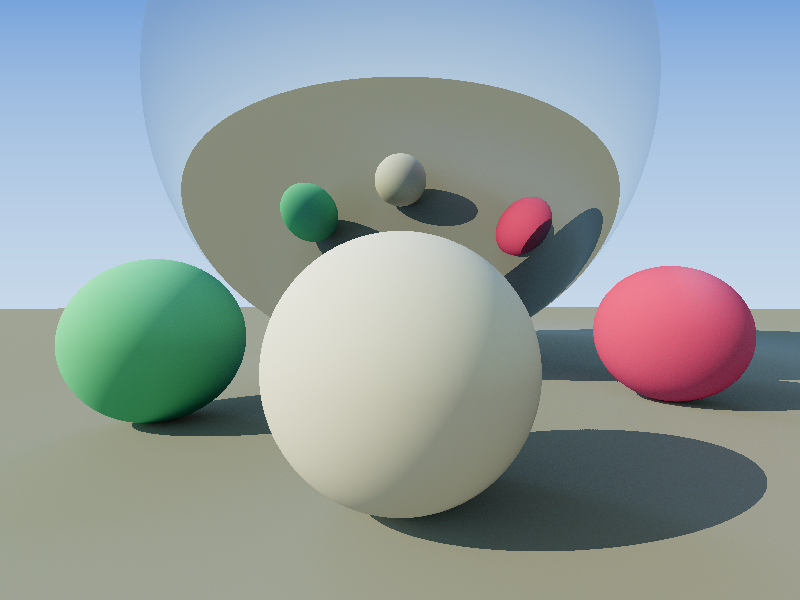
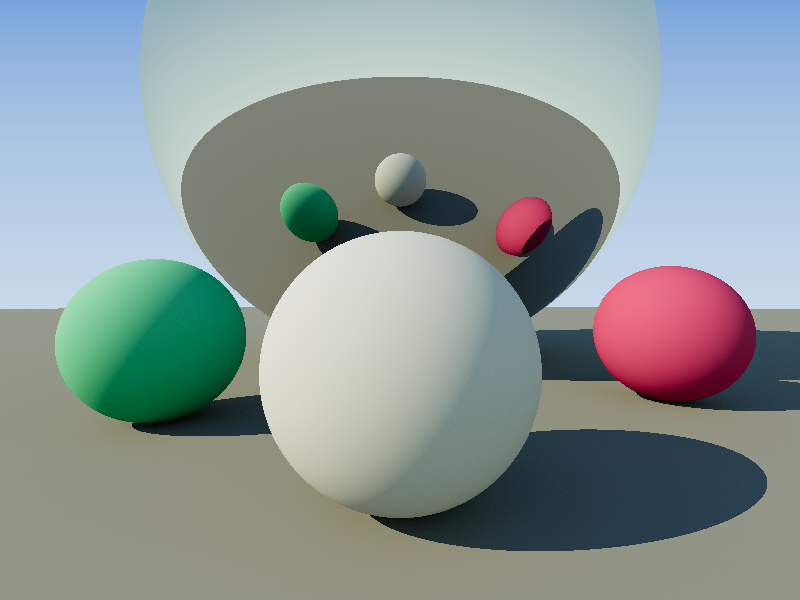
Pathtracing Impl

diff --git a/Raytracer/Intersection.h b/Raytracer/Intersection.h
@@ -23,7 +23,6 @@ namespace CommonUtilities
 			return true;
 		}
 
-	
 		T normalDotProd = aRay.GetDirection().Dot(aPlane.GetNormal());
 		T pointDotProd = aRay.GetOrigin().Dot(aPlane.GetNormal());
 
@@ -38,17 +37,9 @@ namespace CommonUtilities
 
 
 	// If the ray intersects the AABB, true is returned, if not, false is returned.
-	// Any ray starting on the inside is considered to intersect the AABB
 	template<typename T>
 	bool IntersectionAABBRay(const AABB3D<T>& aAABB, const Ray<T>& aRay, Vector3<T>& aOutIntersectionPoint)
 	{
-		if (aAABB.IsInside(aRay.GetOrigin()))
-		{
-			aOutIntersectionPoint = aRay.GetOrigin();
-
-			return true;
-		}
-
 		Vector3<T> a = GetClosestPoint(&aAABB, aRay);
 
 		if (!aAABB.IsInside(a)) return false;
@@ -69,76 +60,31 @@ namespace CommonUtilities
 
 
 	// If the ray intersects the sphere, true is returned, if not, false is returned.
-	// Any ray starting on the inside is considered to intersect the sphere
 	template<typename T>
 	bool IntersectionSphereRay(const SphereCollider<T>& aSphere, const Ray<T>& aRay, Vector3<T>& aOutIntersectionPoint)
 	{
-		/*
-		1. Hitta punkten på strålen som är närmast  sfären/cirkeln
-			-Projicera (aSphere.myOrigin - aRay.myOrigin) på aRay.myDirection för att hitta a.
-		2. Kolla om a är i sfären/cirkeln
-		3. If yes: hitta skärningspunkten, b.
-			-Pythagoras sats Abs(ca)^2 + Abs(ab)^2 = r^2
-			-Abs(ab) = +- sqrt(r^2 - abs(ca)^2
-			-Hitta sen b med a, abs(ab) och d.
+		Vector3<T> dir = (aSphere.GetOrigin() - aRay.GetOrigin());
+		T dirDot = dir.Dot(aRay.GetDirection().GetNormalized());;
 
-		*/
-
-		if (aSphere.IsInside(aRay.GetOrigin()))
-		{
-
-			aOutIntersectionPoint = aRay.GetOrigin();
-			return true;
-		}
-
+		if (!aSphere.IsInside(aRay.GetOrigin() + aRay.GetDirection().GetNormalized() * dirDot)) return false;
 		
-		Vector3<T> dirToSphere = (aSphere.GetOrigin() - aRay.GetOrigin());
-		
+		T rayDist = dirDot - std::sqrt(aSphere.GetRadius() * aSphere.GetRadius() - dir.LengthSqr() + dirDot * dirDot);
 	
+		if (rayDist < 0) return false;
 
-		T directionProd = aRay.GetDirection().Dot(dirToSphere.GetNormalized());
-
-		//std::cout << "- Direction Prod: " << directionProd << std::endl;
-
-		if (directionProd <= 0) return false;
-
-		
-		Vector3<T> a = GetClosestPoint(&aSphere, aRay);
-
-
-		if (!aSphere.IsInside(a)) return false;
-
-		T caAbsLength = CommonUtilities::Abs((aSphere.GetOrigin() - a).LengthSqr());
-
-		T aToBLength = sqrt((aSphere.GetRadius() * aSphere.GetRadius()) - caAbsLength);
-
-		Vector3<T> dir = aRay.GetDirection();
-
-		Vector3<T> ab = dir * aToBLength;
-
-		aOutIntersectionPoint = a - ab;
-
-
+		aOutIntersectionPoint = aRay.GetOrigin() + aRay.GetDirection().GetNormalized() * rayDist;
 
 		return true;
 
-		// Big brain time
 	}
 
 	template< typename T>
 	Vector3<T> GetClosestPoint(const Object<T>* anObject, const Ray<T>& aRay)
 	{
-		/* Very good math
-		v = p.dir;
-		u = c.o - p.o;
-
-		a = (u * (v^2)) / v.LengthSqr
-		*/
 
 		Vector3<T> objRayDif = (anObject->GetOrigin() - aRay.GetOrigin());
 		Vector3<T> dir = aRay.GetDirection();
 		//Vector3<T> dirSquared = dir * dir;
-
 
 		Vector3<T> closestPoint = aRay.GetOrigin() + dir * (objRayDif.Dot(dir));
 		return closestPoint;

diff --git a/Raytracer/CScene.h b/Raytracer/CScene.h
@@ -16,7 +16,11 @@
 
 
 
-
+struct Result
+{
+	Sphere* mySphere;
+	Vector3<float> myIntersectionPoint;
+};
 
 
 class CScene
@@ -31,7 +35,7 @@ public:
 	inline SkyInfo& GetSky();
 	inline Camera& GetCamera();
 
-	inline static std::tuple<Sphere*, Vector3<float>> GetClosestSphere(const Ray<float>& aRay, std::vector<Sphere*> someSpheres, Sphere* aSelf = nullptr);
+	inline static Result GetClosestSphere(const Ray<float>& aRay, std::vector<Sphere*> someSpheres, Sphere* aSelf = nullptr);
 
 private:
 	//Fetches the closest sphere in a given ray.
@@ -126,14 +130,14 @@ SRGB CScene::Raytrace(int x, int y)
 
 	auto collidedSphere = GetClosestSphere(ray, myCurrentSpheres);
 	//std::cout << "Sphere " << i << "at Pixel Pos(x" << x << ",y" << y << ") and at World Pos " << myCurrentSpheres[i].GetCollider().GetOrigin();
-	if (collidedSphere._Myfirst._Val)
+	if (collidedSphere.mySphere)
 	{
 
 		int sampleAmm = 800;
 		Color color;
 		for (size_t i = 0; i < sampleAmm; i++)
 		{
-			color += collidedSphere._Myfirst._Val->TracePath(collidedSphere._Get_rest()._Myfirst._Val, ray, myCurrentSpheres, myLightSource, mySky, 4);
+			color += collidedSphere.mySphere->TracePath(collidedSphere.myIntersectionPoint, ray, myCurrentSpheres, myLightSource, mySky, 5);
 		}
 		color /= sampleAmm;
 		result = { color.r, color.g, color.b };
@@ -168,7 +172,7 @@ inline Camera& CScene::GetCamera()
 }
 
 
-inline std::tuple<Sphere*, Vector3<float>> CScene::GetClosestSphere(const Ray<float>& aRay, std::vector<Sphere*> someSpheres, Sphere* aSelf)
+inline Result CScene::GetClosestSphere(const Ray<float>& aRay, std::vector<Sphere*> someSpheres, Sphere* aSelf)
 {
 	Vector3<float> tempPoint;
 	Vector3<float> closestPoint;
@@ -183,7 +187,7 @@ inline std::tuple<Sphere*, Vector3<float>> CScene::GetClosestSphere(const Ray<fl
 				closestPoint = tempPoint;
 				collidedSphere = col;
 			}
-			else if (Abs((tempPoint - aRay.GetOrigin()).Length()) < Abs((closestPoint - aRay.GetOrigin()).Length()))
+			else if ((tempPoint - aRay.GetOrigin()).Length() <= (closestPoint - aRay.GetOrigin()).Length())
 			{
 				closestPoint = tempPoint;
 				collidedSphere = col;
@@ -193,7 +197,7 @@ inline std::tuple<Sphere*, Vector3<float>> CScene::GetClosestSphere(const Ray<fl
 	}
 
 
-	return std::tuple<Sphere*, Vector3<float>>(collidedSphere, closestPoint);
+	return Result{ collidedSphere, closestPoint };
 }
 
 

diff --git a/Raytracer/Material.cpp b/Raytracer/Material.cpp
@@ -23,29 +23,27 @@ Color Specular::CalculateRayColor(Vector3<float> anIntersectionPoint, CommonUtil
 
 	Vector3<float> reflectedDir = curDir - (2.0f * (curDir.Dot(sphereNormal) * sphereNormal));
 
-	aRay.InitWithOriginAndDirection(anIntersectionPoint + reflectedDir * 0.01f, reflectedDir);
+	aRay.InitWithOriginAndDirection(anIntersectionPoint, reflectedDir);
 
 
 
 	Color skyColor = (1 - aRay.GetDirection().y) * someSkyInfo.myHorizonColor + aRay.GetDirection().y * someSkyInfo.myStraightUpColor;
 
-	Color result = skyColor * myColor;
+	Color result;
 
 	Vector3<float> tempPoint;
 
-	for (auto& col : someOtherSpheres)
+
+	auto sphere = CScene::GetClosestSphere(aRay, someOtherSpheres);
+
+	if (sphere.mySphere)
 	{
-
-		if (col == IMaterial::myOwner) continue;
-
-		if (IntersectionSphereRay(*(col->GetCollider()), aRay, tempPoint))
-		{
-			Color reflectedColor = col->TracePath(tempPoint, aRay, someOtherSpheres, someLightInfo, someSkyInfo, aBounceLimit - 1);
-			result = reflectedColor * myColor;
-		}
-
+		result = sphere.mySphere->TracePath(sphere.myIntersectionPoint, aRay, someOtherSpheres, someLightInfo, someSkyInfo, aBounceLimit - 1) * myColor;
 	}
-
+	else
+	{
+		result = someLightInfo.myColor * skyColor;
+	}
 
 	return result;
 }
@@ -87,25 +85,23 @@ Color Diffuse::CalculateRayColor(Vector3<float> anIntersectionPoint, CommonUtili
 	}
 
 	auto dir = (IMaterial::myOwner->GetNormal(anIntersectionPoint) + IMaterial::myOwner->RandomUnitVector()).GetNormalized();
-	aRay.InitWithOriginAndDirection(anIntersectionPoint + dir * 0.1f, dir);
+	aRay.InitWithOriginAndDirection(anIntersectionPoint, dir);
 
 
 	Color skyColor = (1 - aRay.GetDirection().y) * someSkyInfo.myHorizonColor + aRay.GetDirection().y * someSkyInfo.myStraightUpColor;
 
 	auto sphere = CScene::GetClosestSphere(aRay, someOtherSpheres);
 
-	if (sphere._Myfirst._Val)
+	if (sphere.mySphere)
 	{
-		result += sphere._Myfirst._Val->TracePath(sphere._Get_rest()._Myfirst._Val, aRay, someOtherSpheres, someLightInfo, someSkyInfo, aBounceLimit - 1);
+		result += sphere.mySphere->TracePath(sphere.myIntersectionPoint, aRay, someOtherSpheres, someLightInfo, someSkyInfo, aBounceLimit - 1) * myColor;
 	}
 	else
 	{
-		result += skyColor * someLightInfo.myColor;
+		result += someLightInfo.myColor * skyColor;
 	}
 
-
-
-
+	
 
 
 

diff --git a/Raytracer/Vector3.h b/Raytracer/Vector3.h
@@ -128,6 +128,18 @@ namespace CommonUtilities
 			return Vector3<T>(x, y, z);
 		}
 
+
+
+		bool operator<(Vector3<T> anOtherVec)
+		{
+			return x < anOtherVec.x&& y < anOtherVec.y&& z < anOtherVec.z;
+		}
+
+		bool operator>(Vector3<T> anOtherVec)
+		{
+			return x > anOtherVec.x && y > anOtherVec.y && z > anOtherVec.z;
+		}
+
 	};
 
 	template <class T>
